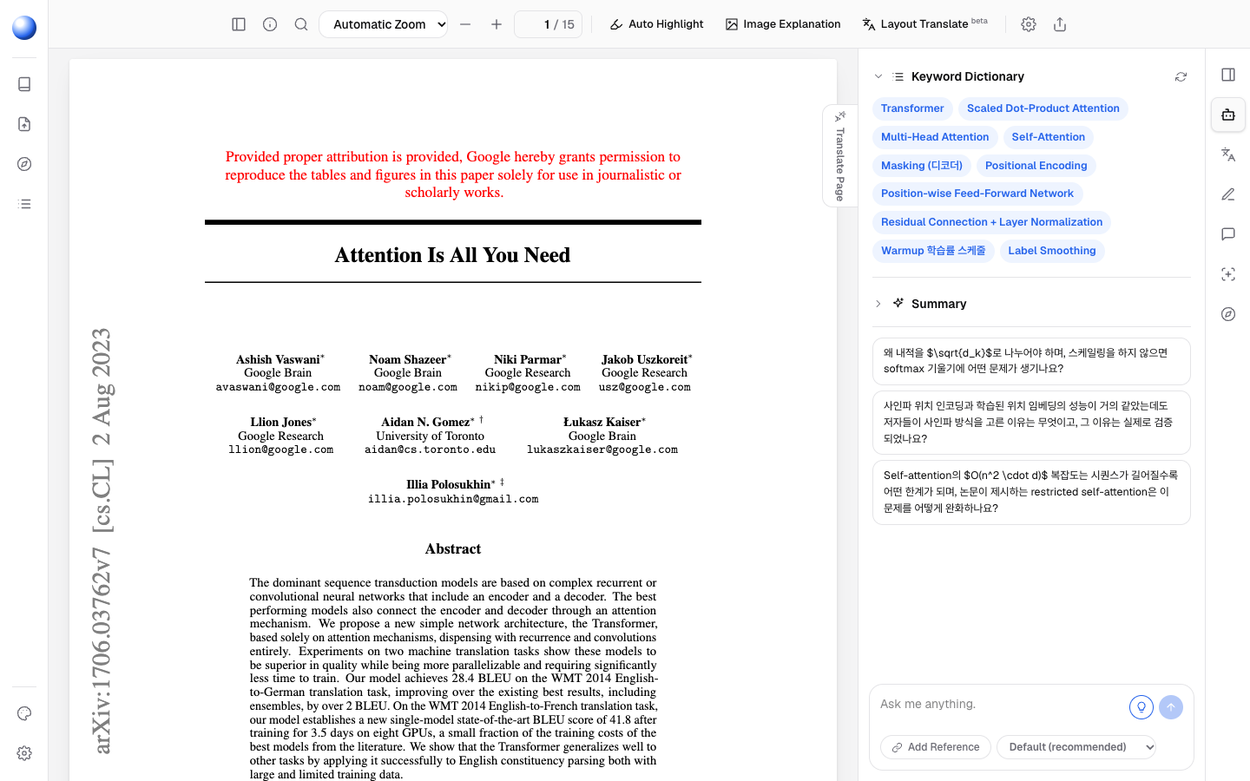
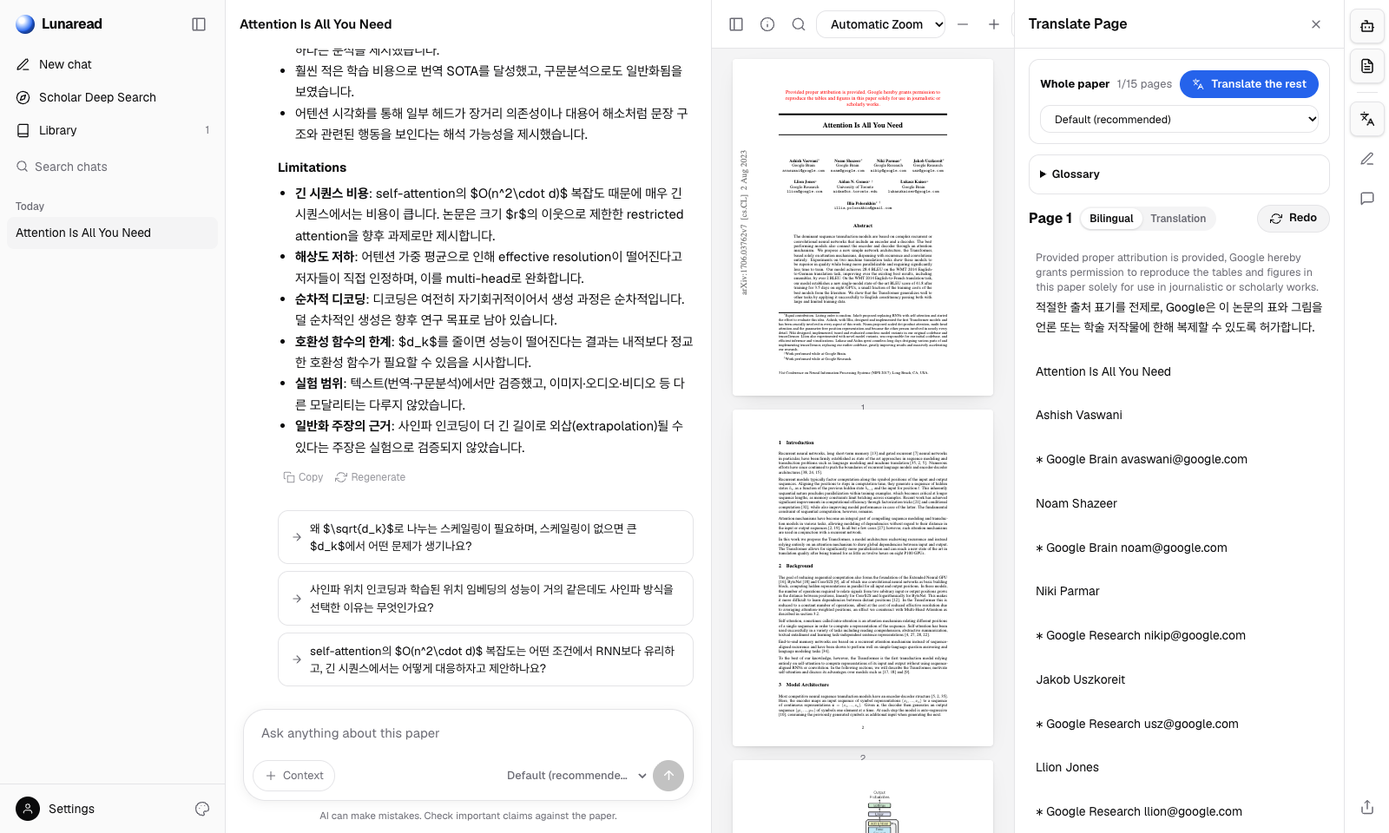
Landing, README and screenshots for 0.2.0; Linux downloads
The hero mock now shows the chat thread beside the PDF. README covers the translator,
chat upgrades, BibTeX, the palette, phones, Linux and tag-based releases.

Closes #24

diff --git a/components/icons.tsx b/components/icons.tsx
@@ -67,6 +67,7 @@ export default function Icon({ name, size = 18, ...rest }: { name: string; size?
 const BRANDS: Record<string, { d: string; color: string }> = {
   claude: { color: '#D97757', d: 'm4.7144 15.9555 4.7174-2.6471.079-.2307-.079-.1275h-.2307l-.7893-.0486-2.6956-.0729-2.3375-.0971-2.2646-.1214-.5707-.1215-.5343-.7042.0546-.3522.4797-.3218.686.0608 1.5179.1032 2.2767.1578 1.6514.0972 2.4468.255h.3886l.0546-.1579-.1336-.0971-.1032-.0972L6.973 9.8356l-2.55-1.6879-1.3356-.9714-.7225-.4918-.3643-.4614-.1578-1.0078.6557-.7225.8803.0607.2246.0607.8925.686 1.9064 1.4754 2.4893 1.8336.3643.3035.1457-.1032.0182-.0728-.164-.2733-1.3539-2.4467-1.445-2.4893-.6435-1.032-.17-.6194c-.0607-.255-.1032-.4674-.1032-.7285L6.287.1335 6.6997 0l.9957.1336.419.3642.6192 1.4147 1.0018 2.2282 1.5543 3.0296.4553.8985.2429.8318.091.255h.1579v-.1457l.1275-1.706.2368-2.0947.2307-2.6957.0789-.7589.3764-.9107.7468-.4918.5828.2793.4797.686-.0668.4433-.2853 1.8517-.5586 2.9021-.3643 1.9429h.2125l.2429-.2429.9835-1.3053 1.6514-2.0643.7286-.8196.85-.9046.5464-.4311h1.0321l.759 1.1293-.34 1.1657-1.0625 1.3478-.8804 1.1414-1.2628 1.7-.7893 1.36.0729.1093.1882-.0183 2.8535-.607 1.5421-.2794 1.8396-.3157.8318.3886.091.3946-.3278.8075-1.967.4857-2.3072.4614-3.4364.8136-.0425.0304.0486.0607 1.5482.1457.6618.0364h1.621l3.0175.2247.7892.522.4736.6376-.079.4857-1.2142.6193-1.6393-.3886-3.825-.9107-1.3113-.3279h-.1822v.1093l1.0929 1.0686 2.0035 1.8092 2.5075 2.3314.1275.5768-.3218.4554-.34-.0486-2.2039-1.6575-.85-.7468-1.9246-1.621h-.1275v.17l.4432.6496 2.3436 3.5214.1214 1.0807-.17.3521-.6071.2125-.6679-.1214-1.3721-1.9246L14.38 17.959l-1.1414-1.9428-.1397.079-.674 7.2552-.3156.3703-.7286.2793-.6071-.4614-.3218-.7468.3218-1.4753.3886-1.9246.3157-1.53.2853-1.9004.17-.6314-.0121-.0425-.1397.0182-1.4328 1.9672-2.1796 2.9446-1.7243 1.8456-.4128.164-.7164-.3704.0667-.6618.4008-.5889 2.386-3.0357 1.4389-1.882.929-1.0868-.0062-.1579h-.0546l-6.3385 4.1164-1.1293.1457-.4857-.4554.0608-.7467.2307-.2429 1.9064-1.3114Z' },
   apple: { color: 'currentColor', d: 'M12.152 6.896c-.948 0-2.415-1.078-3.96-1.04-2.04.027-3.91 1.183-4.961 3.014-2.117 3.675-.546 9.103 1.519 12.09 1.013 1.454 2.208 3.09 3.792 3.039 1.52-.065 2.09-.987 3.935-.987 1.831 0 2.35.987 3.96.948 1.637-.026 2.676-1.48 3.676-2.948 1.156-1.688 1.636-3.325 1.662-3.415-.039-.013-3.182-1.221-3.22-4.857-.026-3.04 2.48-4.494 2.597-4.559-1.429-2.09-3.623-2.324-4.39-2.376-2-.156-3.675 1.09-4.61 1.09zM15.53 3.83c.843-1.012 1.4-2.427 1.245-3.83-1.207.052-2.662.805-3.532 1.818-.78.896-1.454 2.338-1.273 3.714 1.338.104 2.715-.688 3.559-1.701' },
+  linux: { color: 'currentColor', d: 'M12.504 0c-.155 0-.315.008-.48.021-4.226.333-3.105 4.807-3.17 6.298-.076 1.092-.3 1.953-1.05 3.02-.885 1.051-2.127 2.75-2.716 4.521-.278.832-.41 1.684-.287 2.489a.424.424 0 00-.11.135c-.26.268-.45.6-.663.839-.199.199-.485.267-.797.4-.313.136-.658.269-.864.68-.09.189-.136.394-.132.602 0 .199.027.4.055.536.058.399.116.728.04.97-.249.68-.28 1.145-.106 1.484.174.334.535.47.94.601.81.2 1.91.135 2.774.6.926.466 1.866.67 2.616.47.526-.116.97-.464 1.208-.946.587-.003 1.23-.269 2.26-.334.699-.058 1.574.267 2.577.2.025.134.063.198.114.333l.003.003c.391.778 1.113 1.132 1.884 1.071.771-.06 1.592-.536 2.257-1.306.631-.765 1.683-1.084 2.378-1.503.348-.199.629-.469.649-.853.023-.4-.2-.811-.714-1.376v-.097l-.003-.003c-.17-.2-.25-.535-.338-.926-.085-.401-.182-.786-.492-1.046h-.003c-.059-.054-.123-.067-.188-.135a.357.357 0 00-.19-.064c.431-1.278.264-2.55-.173-3.694-.533-1.41-1.465-2.638-2.175-3.483-.796-1.005-1.576-1.957-1.56-3.368.026-2.152.236-6.133-3.544-6.139zm.529 3.405h.013c.213 0 .396.062.584.198.19.135.33.332.438.533.105.259.158.459.166.724 0-.02.006-.04.006-.06v.105a.086.086 0 01-.004-.021l-.004-.024a1.807 1.807 0 01-.15.706.953.953 0 01-.213.335.71.71 0 00-.088-.042c-.104-.045-.198-.064-.284-.133a1.312 1.312 0 00-.22-.066c.05-.06.146-.133.183-.198.053-.128.082-.264.088-.402v-.02a1.21 1.21 0 00-.061-.4c-.045-.134-.101-.2-.183-.333-.084-.066-.167-.132-.267-.132h-.016c-.093 0-.176.03-.262.132a.8.8 0 00-.205.334 1.18 1.18 0 00-.09.4v.019c.002.089.008.179.02.267-.193-.067-.438-.135-.607-.202a1.635 1.635 0 01-.018-.2v-.02a1.772 1.772 0 01.15-.768c.082-.22.232-.406.43-.533a.985.985 0 01.594-.2zm-2.962.059h.036c.142 0 .27.048.399.135.146.129.264.288.344.465.09.199.14.4.153.667v.004c.007.134.006.2-.002.266v.08c-.03.007-.056.018-.083.024-.152.055-.274.135-.393.2.012-.09.013-.18.003-.267v-.015c-.012-.133-.04-.2-.082-.333a.613.613 0 00-.166-.267.248.248 0 00-.183-.064h-.021c-.071.006-.13.04-.186.132a.552.552 0 00-.12.27.944.944 0 00-.023.33v.015c.012.135.037.2.08.334.046.134.098.2.166.268.01.009.02.018.034.024-.07.057-.117.07-.176.136a.304.304 0 01-.131.068 2.62 2.62 0 01-.275-.402 1.772 1.772 0 01-.155-.667 1.759 1.759 0 01.08-.668 1.43 1.43 0 01.283-.535c.128-.133.26-.2.418-.2zm1.37 1.706c.332 0 .733.065 1.216.399.293.2.523.269 1.052.468h.003c.255.136.405.266.478.399v-.131a.571.571 0 01.016.47c-.123.31-.516.643-1.063.842v.002c-.268.135-.501.333-.775.465-.276.135-.588.292-1.012.267a1.139 1.139 0 01-.448-.067 3.566 3.566 0 01-.322-.198c-.195-.135-.363-.332-.612-.465v-.005h-.005c-.4-.246-.616-.512-.686-.71-.07-.268-.005-.47.193-.6.224-.135.38-.271.483-.336.104-.074.143-.102.176-.131h.002v-.003c.169-.202.436-.47.839-.601.139-.036.294-.065.466-.065zm2.8 2.142c.358 1.417 1.196 3.475 1.735 4.473.286.534.855 1.659 1.102 3.024.156-.005.33.018.513.064.646-1.671-.546-3.467-1.089-3.966-.22-.2-.232-.335-.123-.335.59.534 1.365 1.572 1.646 2.757.13.535.16 1.104.021 1.67.067.028.135.06.205.067 1.032.534 1.413.938 1.23 1.537v-.043c-.06-.003-.12 0-.18 0h-.016c.151-.467-.182-.825-1.065-1.224-.915-.4-1.646-.336-1.77.465-.008.043-.013.066-.018.135-.068.023-.139.053-.209.064-.43.268-.662.669-.793 1.187-.13.533-.17 1.156-.205 1.869v.003c-.02.334-.17.838-.319 1.35-1.5 1.072-3.58 1.538-5.348.334a2.645 2.645 0 00-.402-.533 1.45 1.45 0 00-.275-.333c.182 0 .338-.03.465-.067a.615.615 0 00.314-.334c.108-.267 0-.697-.345-1.163-.345-.467-.931-.995-1.788-1.521-.63-.4-.986-.87-1.15-1.396-.165-.534-.143-1.085-.015-1.645.245-1.07.873-2.11 1.274-2.763.107-.065.037.135-.408.974-.396.751-1.14 2.497-.122 3.854a8.123 8.123 0 01.647-2.876c.564-1.278 1.743-3.504 1.836-5.268.048.036.217.135.289.202.218.133.38.333.59.465.21.201.477.335.876.335.039.003.075.006.11.006.412 0 .73-.134.997-.268.29-.134.52-.334.74-.4h.005c.467-.135.835-.402 1.044-.7zm2.185 8.958c.037.6.343 1.245.882 1.377.588.134 1.434-.333 1.791-.765l.211-.01c.315-.007.577.01.847.268l.003.003c.208.199.305.53.391.876.085.4.154.78.409 1.066.486.527.645.906.636 1.14l.003-.007v.018l-.003-.012c-.015.262-.185.396-.498.595-.63.401-1.746.712-2.457 1.57-.618.737-1.37 1.14-2.036 1.191-.664.053-1.237-.2-1.574-.898l-.005-.003c-.21-.4-.12-1.025.056-1.69.176-.668.428-1.344.463-1.897.037-.714.076-1.335.195-1.814.12-.465.308-.797.641-.984l.045-.022zm-10.814.049h.01c.053 0 .105.005.157.014.376.055.706.333 1.023.752l.91 1.664.003.003c.243.533.754 1.064 1.189 1.637.434.598.77 1.131.729 1.57v.006c-.057.744-.48 1.148-1.125 1.294-.645.135-1.52.002-2.395-.464-.968-.536-2.118-.469-2.857-.602-.369-.066-.61-.2-.723-.4-.11-.2-.113-.602.123-1.23v-.004l.002-.003c.117-.334.03-.752-.027-1.118-.055-.401-.083-.71.043-.94.16-.334.396-.4.69-.533.294-.135.64-.202.915-.47h.002v-.002c.256-.268.445-.601.668-.838.19-.201.38-.336.663-.336zm7.159-9.074c-.435.201-.945.535-1.488.535-.542 0-.97-.267-1.28-.466-.154-.134-.28-.268-.373-.335-.164-.134-.144-.333-.074-.333.109.016.129.134.199.2.096.066.215.2.36.333.292.2.68.467 1.167.467.485 0 1.053-.267 1.398-.466.195-.135.445-.334.648-.467.156-.136.149-.267.279-.267.128.016.034.134-.147.332a8.097 8.097 0 01-.69.468zm-1.082-1.583V5.64c-.006-.02.013-.042.029-.05.074-.043.18-.027.26.004.063 0 .16.067.15.135-.006.049-.085.066-.135.066-.055 0-.092-.043-.141-.068-.052-.018-.146-.008-.163-.065zm-.551 0c-.02.058-.113.049-.166.066-.047.025-.086.068-.14.068-.05 0-.13-.02-.136-.068-.01-.066.088-.133.15-.133.08-.031.184-.047.259-.005.019.009.036.03.03.05v.02h.003z' },
   windows: { color: 'currentColor', d: 'M0 0h11.377v11.372H0zm12.623 0H24v11.372H12.623zM0 12.623h11.377V24H0zm12.623 0H24V24H12.623' },
   openai: { color: 'currentColor', d: 'M22.2819 9.8211a5.9847 5.9847 0 0 0-.5157-4.9108 6.0462 6.0462 0 0 0-6.5098-2.9A6.0651 6.0651 0 0 0 4.9807 4.1818a5.9847 5.9847 0 0 0-3.9977 2.9 6.0462 6.0462 0 0 0 .7427 7.0966 5.98 5.98 0 0 0 .511 4.9107 6.051 6.051 0 0 0 6.5146 2.9001A5.9847 5.9847 0 0 0 13.2599 24a6.0557 6.0557 0 0 0 5.7718-4.2058 5.9894 5.9894 0 0 0 3.9977-2.9001 6.0557 6.0557 0 0 0-.7475-7.0729zm-9.022 12.6081a4.4755 4.4755 0 0 1-2.8764-1.0408l.1419-.0804 4.7783-2.7582a.7948.7948 0 0 0 .3927-.6813v-6.7369l2.02 1.1686a.071.071 0 0 1 .038.052v5.5826a4.504 4.504 0 0 1-4.4945 4.4944zm-9.6607-4.1254a4.4708 4.4708 0 0 1-.5346-3.0137l.142.0852 4.783 2.7582a.7712.7712 0 0 0 .7806 0l5.8428-3.3685v2.3324a.0804.0804 0 0 1-.0332.0615L9.74 19.9502a4.4992 4.4992 0 0 1-6.1408-1.6464zM2.3408 7.8956a4.485 4.485 0 0 1 2.3655-1.9728V11.6a.7664.7664 0 0 0 .3879.6765l5.8144 3.3543-2.0201 1.1685a.0757.0757 0 0 1-.071 0l-4.8303-2.7865A4.504 4.504 0 0 1 2.3408 7.872zm16.5963 3.8558L13.1038 8.364 15.1192 7.2a.0757.0757 0 0 1 .071 0l4.8303 2.7913a4.4944 4.4944 0 0 1-.6765 8.1042v-5.6772a.79.79 0 0 0-.407-.667zm2.0107-3.0231l-.142-.0852-4.7735-2.7818a.7759.7759 0 0 0-.7854 0L9.409 9.2297V6.8974a.0662.0662 0 0 1 .0284-.0615l4.8303-2.7866a4.4992 4.4992 0 0 1 6.6802 4.66zM8.3065 12.863l-2.02-1.1638a.0804.0804 0 0 1-.038-.0567V6.0742a4.4992 4.4992 0 0 1 7.3757-3.4537l-.142.0805L8.704 5.459a.7948.7948 0 0 0-.3927.6813zm1.0976-2.3654l2.602-1.4998 2.6069 1.4998v2.9994l-2.5974 1.4997-2.6067-1.4997Z' },
 };

diff --git a/components/site/Landing.tsx b/components/site/Landing.tsx
@@ -52,7 +52,7 @@ function Hero() {
           <Link href="/library/" className="btn btn-primary h-12 px-7 text-[15px]">Open the reader<Icon name="arrowRight" size={16} /></Link>
           <a href={DOWNLOADS.mac} className="btn btn-outline h-12 px-7 text-[15px]"><Brand name="apple" size={16} />Download for Mac</a>
         </div>
-        <p className="mt-5 text-[13px] text-muted">Free and open source · <a href={DOWNLOADS.win} className="underline-offset-2 hover:text-fg hover:underline">Windows</a> · <a href={REPO_URL} target="_blank" rel="noreferrer" className="underline-offset-2 hover:text-fg hover:underline">Source on GitHub</a> · Your papers stay on your device</p>
+        <p className="mt-5 text-[13px] text-muted">Free and open source · <a href={DOWNLOADS.win} className="underline-offset-2 hover:text-fg hover:underline">Windows</a> · <a href={DOWNLOADS.linux} className="underline-offset-2 hover:text-fg hover:underline">Linux</a> · <a href={REPO_URL} target="_blank" rel="noreferrer" className="underline-offset-2 hover:text-fg hover:underline">Source on GitHub</a> · Your papers stay on your device</p>
       </BlurFade>
       <BlurFade delay={0.32} className="relative mx-auto mt-16 max-w-5xl">
         <div className="relative rounded-[18px] border border-line bg-surface-2/60 p-2 shadow-soft">
@@ -118,7 +118,7 @@ function Bento() {
         <div className={`${cell} md:col-span-2`}>
           <Icon name="library" className="text-accent" />
           <h3 className="mt-4 text-lg font-bold">Library & folders</h3>
-          <p className="mt-1 max-w-md text-sm text-muted">Drop PDFs or paste arXiv links. Lunaread reads the title, renders a thumbnail and remembers where you stopped.</p>
+          <p className="mt-1 max-w-md text-sm text-muted">Drop PDFs, paste arXiv links or import a BibTeX file. Ask questions across a folder or your whole library.</p>
           <div className="mt-6 flex gap-3">{[0, 1, 2, 3].map(i => <div key={i} className="h-28 w-24 shrink-0 rounded-lg border border-line bg-white p-2.5 shadow-sm" style={{ transform: `rotate(${(i - 1.5) * 3}deg)` }}><div className="mb-2 h-1.5 w-3/4 rounded bg-black/70" />{[1, 2, 3, 4, 5].map(j => <div key={j} className="mb-1.5 h-1 rounded bg-black/10" />)}</div>)}</div>
         </div>
         <div className={cell}>
@@ -130,7 +130,7 @@ function Bento() {
         <div className={cell}>
           <Icon name="pen" className="text-accent" />
           <h3 className="mt-4 text-lg font-bold">Markup & notes</h3>
-          <p className="mt-1 text-sm text-muted">Five highlight colors, notes on every highlight, Markdown export.</p>
+          <p className="mt-1 text-sm text-muted">Five highlight colors, notes on every highlight, Markdown and BibTeX export.</p>
           <div className="mt-5 flex gap-2">{['yellow', 'green', 'blue', 'pink', 'purple'].map(c => <span key={c} className="size-7 rounded-full ring-2 ring-surface" style={{ background: `var(--hl-${c})` }} />)}</div>
         </div>
         <div className={`${cell} md:col-span-2`}>
@@ -142,7 +142,7 @@ function Bento() {
         <div className={cell}>
           <Icon name="monitor" className="text-accent" />
           <h3 className="mt-4 text-lg font-bold">Web and desktop</h3>
-          <p className="mt-1 text-sm text-muted">The same app in your browser or as a native macOS / Windows window.</p>
+          <p className="mt-1 text-sm text-muted">The same app in your browser, on your phone, or as a macOS, Windows or Linux app.</p>
         </div>
         <div className={`${cell} md:col-span-2`}>
           <Icon name="shield" className="text-accent" />
@@ -199,11 +199,12 @@ function Download() {
   const apps: [string, string, string, string][] = [
     ['apple', 'macOS', 'Apple Silicon · .dmg', DOWNLOADS.mac],
     ['windows', 'Windows', 'x64 · installer', DOWNLOADS.win],
+    ['linux', 'Linux', 'x64 · AppImage', DOWNLOADS.linux],
   ];
   return (
     <section id="download" className="scroll-mt-16 px-6 py-20 md:px-10">
       <Heading kicker="Desktop app" title="Take Lunaread to your desktop" sub="The desktop app runs the AI server inside the app, so your Claude or ChatGPT login works with nothing else to set up." />
-      <div className="mx-auto mt-12 grid max-w-3xl gap-4 sm:grid-cols-2">
+      <div className="mx-auto mt-12 grid max-w-5xl gap-4 sm:grid-cols-2 lg:grid-cols-3">
         {apps.map(([icon, name, meta, href]) => (
           <a key={name} href={href} className="card group relative flex items-center gap-4 overflow-hidden p-6 transition hover:-translate-y-0.5 hover:shadow-soft">
             <span className="grid size-12 place-items-center rounded-2xl bg-surface-2 text-fg"><Brand name={icon} size={24} /></span>
@@ -213,7 +214,7 @@ function Download() {
         ))}
       </div>
       <p className="mt-6 text-center text-[13px] text-muted">
-        Unsigned builds. On macOS, right-click the app and choose <b>Open</b> on first launch. <a href={DOWNLOADS.all} target="_blank" rel="noreferrer" className="text-accent hover:underline">All releases</a>
+        Unsigned builds. On macOS, right-click the app and choose <b>Open</b> on first launch. On Linux, make the AppImage executable. <a href={DOWNLOADS.all} target="_blank" rel="noreferrer" className="text-accent hover:underline">All releases</a>
       </p>
     </section>
   );

diff --git a/components/site/Mocks.tsx b/components/site/Mocks.tsx
@@ -49,37 +49,37 @@ export function PaperPage({ selection = true }: { selection?: boolean }) {
   );
 }
 
+// The reader as it looks in the app: the chat thread beside the PDF.
 export function ProductMock() {
   const { shown, done } = useTyping(EXPLAIN);
+  const Avatar = () => <span className="mt-0.5 size-5 shrink-0 rounded-full" style={{ background: 'radial-gradient(circle at 32% 30%, #fff 0 14%, var(--accent) 58%, color-mix(in srgb, var(--accent) 35%, #000) 100%)' }} />;
   return (
     <div className="overflow-hidden rounded-[14px] border border-line bg-surface text-left">
       <div className="flex h-11 items-center gap-2 border-b border-line px-4">
         <span className="flex gap-1.5">{['#ff5f57', '#febc2e', '#28c840'].map(c => <i key={c} className="size-3 rounded-full" style={{ background: c }} />)}</span>
-        <div className="mx-auto hidden items-center gap-1 text-xs text-muted sm:flex">
-          <span className="rounded-md border border-line px-2 py-1">Automatic Zoom</span><span className="rounded-md border border-line px-2 py-1">3 / 15</span>
+        <span className="ml-3 truncate text-xs font-semibold">Attention Is All You Need</span>
+        <div className="ml-auto hidden items-center gap-1 text-xs text-muted sm:flex">
+          <span className="rounded-md border border-line px-2 py-1">3 / 15</span>
           <span className="inline-flex items-center gap-1 rounded-md bg-accent-soft px-2 py-1 text-accent"><Icon name="highlighter" size={12} />Auto Highlight</span>
           <span className="inline-flex items-center gap-1 px-2 py-1"><Icon name="image" size={12} />Image Explanation</span>
-          <span className="inline-flex items-center gap-1 px-2 py-1"><Icon name="languages" size={12} />Translate</span>
         </div>
       </div>
-      <div className="grid md:grid-cols-[1fr_340px]">
-        <div className="bg-surface-2 p-6 md:p-10"><PaperPage /></div>
-        <div className="hidden flex-col gap-3 border-l border-line p-4 md:flex">
-          <b className="text-[13px]">Keyword Dictionary</b>
-          <div className="flex flex-wrap gap-1.5">{['Transformer', 'Self-Attention', 'Multi-Head', 'Positional Encoding', 'Softmax'].map(k => <span key={k} className="rounded-full bg-ai px-2.5 py-1 text-[11.5px] font-semibold text-accent">{k}</span>)}</div>
-          <div className="ai-bubble">
-            <div className="mb-1.5 flex items-center gap-1.5 text-[11px] font-bold text-accent"><Icon name="sparkles" size={12} />Explanation · p.3</div>
-            <p className={`text-[12.5px] ${done ? '' : 'typing'}`}>{shown}</p>
-          </div>
-          <div className="mt-auto rounded-xl border border-line p-2.5">
-            <p className="text-xs text-muted">Ask me anything.</p>
-            <div className="mt-2 flex items-center gap-1.5">
-              <span className="chip h-6 text-[11px]"><Icon name="link" size={11} />Add Reference</span>
-              <span className="chip h-6 text-[11px]">Opus 5.5 · my subscription</span>
-              <span className="ml-auto grid size-6 place-items-center rounded-full bg-accent text-white"><Icon name="send" size={12} /></span>
+      <div className="grid md:grid-cols-[360px_1fr]">
+        <div className="hidden flex-col gap-3.5 border-r border-line p-4 text-[12.5px] leading-relaxed md:flex">
+          <div className="ml-auto flex w-56 items-center gap-2 rounded-xl border border-line p-2"><span className="grid h-8 w-6 place-items-center rounded bg-red-500 text-[7px] font-bold text-white">PDF</span><span><b className="block text-[11.5px]">Attention Is All You Need</b><span className="text-[10.5px] text-muted">PDF · 15 pages</span></span></div>
+          <div className="flex gap-2"><Avatar /><div><div className="mb-1 flex flex-wrap gap-1">{['Transformer', 'Self-Attention', 'Multi-Head'].map(k => <span key={k} className="rounded-full bg-ai px-2 py-0.5 text-[10.5px] font-semibold text-accent">{k}</span>)}</div>A new architecture built only on attention, with no recurrence.</div></div>
+          <div className="ml-auto max-w-[85%] rounded-2xl bg-surface-2 px-3 py-2"><div className="mb-0.5 flex items-center gap-1 text-[10.5px] font-semibold text-muted"><Icon name="sparkles" size={11} />Explain · p.3</div><i className="text-fg/80">“We scale the dot products by 1/√dₖ…”</i></div>
+          <div className="flex gap-2"><Avatar /><p className={done ? '' : 'typing'}>{shown}</p></div>
+          <div className="mt-auto rounded-2xl border border-line p-2">
+            <p className="px-1 text-[11.5px] text-muted">Ask anything about this paper</p>
+            <div className="mt-1.5 flex items-center gap-1.5">
+              <span className="chip h-6 text-[10.5px]"><Icon name="plus" size={11} />Context</span>
+              <span className="ml-auto text-[10.5px] text-muted">Opus 5.5 · my subscription</span>
+              <span className="grid size-6 place-items-center rounded-full bg-fg text-bg"><Icon name="arrowRight" size={12} className="-rotate-90" /></span>
             </div>
           </div>
         </div>
+        <div className="bg-surface-2 p-6 md:p-10"><PaperPage /></div>
       </div>
     </div>
   );

diff --git a/components/app/Rail.tsx b/components/app/Rail.tsx
@@ -146,7 +146,7 @@ export function SetupDialog({ onClose }: { onClose: () => void }) {
         <ol className="grid gap-4 text-[13px] text-muted">
           <Step n={1} title="Easiest: use the desktop app">
             <span>It has the server built in, so nothing else is needed.</span>
-            <div className="flex gap-2"><a className="btn btn-outline btn-sm" href={DOWNLOADS.mac}><Brand name="apple" size={14} />macOS</a><a className="btn btn-outline btn-sm" href={DOWNLOADS.win}><Brand name="windows" size={14} />Windows</a><a className="btn btn-outline btn-sm" href={DOWNLOADS.all} target="_blank" rel="noreferrer">All downloads</a></div>
+            <div className="flex flex-wrap gap-2"><a className="btn btn-outline btn-sm" href={DOWNLOADS.mac}><Brand name="apple" size={14} />macOS</a><a className="btn btn-outline btn-sm" href={DOWNLOADS.win}><Brand name="windows" size={14} />Windows</a><a className="btn btn-outline btn-sm" href={DOWNLOADS.linux}><Brand name="linux" size={14} />Linux</a></div>
           </Step>
           <Step n={2} title="Or run the server from source">
             <span>Needs Node.js 22.18+. Log in to <code className="font-mono">claude</code> or <code className="font-mono">codex</code> once to use your subscription.</span>

diff --git a/components/viewer/Panels.tsx b/components/viewer/Panels.tsx
@@ -241,7 +241,7 @@ export function TranslatePanel({ page, paras, busy, error, all, translated, page
       {paras?.map((p, i) => (
         <div key={i} className="group grid cursor-pointer gap-1 rounded-xl p-2 text-[14px] leading-relaxed hover:bg-surface-2" onClick={() => onJump(p)}>
           {both && p.tr !== p.src && <p className="text-[12.5px] leading-snug text-muted">{p.src}</p>}
-          <p>{p.tr}</p>
+          <p className={p.tr === p.src ? 'text-[12.5px] text-muted' : ''}>{p.tr}</p>
           <div className="hidden gap-0.5 text-muted group-hover:flex group-focus-within:flex" onClick={e => e.stopPropagation()}>
             <Act icon="refresh" label="Retranslate" onClick={() => onRetranslate(i)} /><Copy text={p.tr} />
           </div>

diff --git a/lib/api.ts b/lib/api.ts
@@ -10,6 +10,7 @@ export const REPO_URL = 'https://github.com/SUNGMYEONGGI/Lunaread';
 export const DOWNLOADS = {
   mac: `${REPO_URL}/releases/latest/download/Lunaread-arm64.dmg`,
   win: `${REPO_URL}/releases/latest/download/Lunaread-Setup-x64.exe`,
+  linux: `${REPO_URL}/releases/latest/download/Lunaread-x86_64.AppImage`,
   all: `${REPO_URL}/releases/latest`,
 };
 

diff --git a/README.md b/README.md
@@ -8,14 +8,14 @@
 
 AI runs through the Claude Agent SDK on your Claude login, or through the Codex SDK on your ChatGPT login. You need no API keys and no cloud account. Your papers, highlights and notes stay in your browser.
 
-[**Website**](https://sungmyeonggi.github.io/Lunaread/) · [**Download for Mac**](https://github.com/SUNGMYEONGGI/Lunaread/releases/latest/download/Lunaread-arm64.dmg) · [**Download for Windows**](https://github.com/SUNGMYEONGGI/Lunaread/releases/latest/download/Lunaread-Setup-x64.exe) · [**Open the reader**](https://sungmyeonggi.github.io/Lunaread/library/) · [**Quick start**](#quick-start) · [**Features**](#features) · [**Architecture**](#architecture) · [**Security model**](#security-model) · [**Build and release**](#build-and-release)
+[**Website**](https://sungmyeonggi.github.io/Lunaread/) · [**Download for Mac**](https://github.com/SUNGMYEONGGI/Lunaread/releases/latest/download/Lunaread-arm64.dmg) · [**Download for Windows**](https://github.com/SUNGMYEONGGI/Lunaread/releases/latest/download/Lunaread-Setup-x64.exe) · [**Download for Linux**](https://github.com/SUNGMYEONGGI/Lunaread/releases/latest/download/Lunaread-x86_64.AppImage) · [**Open the reader**](https://sungmyeonggi.github.io/Lunaread/library/) · [**Quick start**](#quick-start) · [**Features**](#features) · [**Architecture**](#architecture) · [**Security model**](#security-model) · [**Build and release**](#build-and-release)
 
 [![Release](https://github.com/SUNGMYEONGGI/Lunaread/actions/workflows/release.yml/badge.svg)](https://github.com/SUNGMYEONGGI/Lunaread/actions/workflows/release.yml)
 [![Latest release](https://img.shields.io/github/v/release/SUNGMYEONGGI/Lunaread)](https://github.com/SUNGMYEONGGI/Lunaread/releases/latest)
 [![Deploy to GitHub Pages](https://github.com/SUNGMYEONGGI/Lunaread/actions/workflows/deploy.yml/badge.svg)](https://github.com/SUNGMYEONGGI/Lunaread/actions/workflows/deploy.yml)
 ![Next.js](https://img.shields.io/badge/Next.js-16-black.svg)
 ![TypeScript](https://img.shields.io/badge/TypeScript-strict-3178c6.svg)
-![Platform: Web · macOS · Windows](https://img.shields.io/badge/platform-web%20%C2%B7%20macOS%20%C2%B7%20Windows-lightgrey.svg)
+![Platform: Web · macOS · Windows · Linux](https://img.shields.io/badge/platform-web%20%C2%B7%20macOS%20%C2%B7%20Windows%20%C2%B7%20Linux-lightgrey.svg)
 ![Alpha](https://img.shields.io/badge/status-alpha-orange.svg)
 
 <img src="docs/reader.png" width="860" alt="Lunaread reader with the AI Colleague panel">
@@ -61,7 +61,7 @@ The model list comes from each engine. For Claude, that is the models your plan 
 
 ### Desktop app
 
-1. Download the latest release: [**`Lunaread-arm64.dmg`**](https://github.com/SUNGMYEONGGI/Lunaread/releases/latest/download/Lunaread-arm64.dmg) (macOS, Apple Silicon) or [**`Lunaread-Setup-x64.exe`**](https://github.com/SUNGMYEONGGI/Lunaread/releases/latest/download/Lunaread-Setup-x64.exe) (Windows). All builds are on [Releases](https://github.com/SUNGMYEONGGI/Lunaread/releases).
+1. Download the latest release: [**`Lunaread-arm64.dmg`**](https://github.com/SUNGMYEONGGI/Lunaread/releases/latest/download/Lunaread-arm64.dmg) (macOS, Apple Silicon), [**`Lunaread-Setup-x64.exe`**](https://github.com/SUNGMYEONGGI/Lunaread/releases/latest/download/Lunaread-Setup-x64.exe) (Windows) or [**`Lunaread-x86_64.AppImage`**](https://github.com/SUNGMYEONGGI/Lunaread/releases/latest/download/Lunaread-x86_64.AppImage) (Linux). All builds are on [Releases](https://github.com/SUNGMYEONGGI/Lunaread/releases).
 2. **macOS.** Drag **Lunaread** to Applications. The build is signed ad hoc only, so Gatekeeper blocks the first launch. Right-click the app and choose **Open**, or run:
 
    ```sh
@@ -69,7 +69,9 @@ The model list comes from each engine. For Claude, that is the models your plan 
    ```
 
    **Windows.** Run the installer. SmartScreen may warn about an unknown publisher; choose **More info**, then **Run anyway**.
-3. The app uses the Claude Code and Codex logins already on this computer. You don't need to configure anything else.
+
+   **Linux.** `chmod +x Lunaread-x86_64.AppImage`, then run it.
+3. The app uses the Claude Code and Codex logins already on this computer. You don't need to configure anything else. It tells you when a newer release is out.
 
 ### From source
 
@@ -84,7 +86,7 @@ npm start          # http://127.0.0.1:8787
 You can now use either address:
 
 - **http://127.0.0.1:8787**, served by the local server.
-- **The [website](https://sungmyeonggi.github.io/Lunaread/library/).** It finds the server on its own. The first time, Chrome asks for permission to access devices on your local network; choose **Allow**.
+- **The [website](https://sungmyeonggi.github.io/Lunaread/library/).** It finds the server on its own; on the first visit without one, a setup guide walks you through connecting it. Chrome asks for permission to access devices on your local network; choose **Allow**.
 
 To run the desktop app from source, use `npm run desktop`.
 
@@ -96,6 +98,9 @@ To run the desktop app from source, use `npm run desktop`.
 - Turn on **Image Explanation** and drag over a figure. Holding `⌘`/`Ctrl` while dragging does the same.
 - Press **Auto Highlight** to mark novelty, method and result sentences.
 - Click a citation marker such as `[12]`, or hover an internal link to preview its target.
+- Open **Translate Page** in the right rail and press **Translate paper**. Read it paragraph by paragraph next to the original, or hold `Alt`/`⌥` and point at a paragraph in the PDF.
+- In the composer, open **Context** and choose **Whole library** to ask across every paper you have.
+- Press `⌘K`/`Ctrl+K` to jump to a paper or run an action.
 - Open the palette in the left rail and try any Color Hunt palette as the app theme.
 
 ## Main surfaces
@@ -105,20 +110,22 @@ To run the desktop app from source, use `npm run desktop`.
 | Landing (`/`, `/features/`) | Product site in the style of the Magic UI templates |
 | Home (`/library/`) | Chatbot-style start screen: one composer that takes a PDF, an arXiv ID or a link |
 | Sidebar | Every paper is a conversation, grouped by Today, Previous 7 days and Older. Also holds New chat, Scholar Deep Search, Library, search and Settings. |
-| Library (`/library/?all`) | All papers as cards, with folder filters, folder moves and delete |
+| Library (`/library/?all`) | All papers as cards, with folder filters, folder moves, delete, and BibTeX import/export |
 | Scholar Deep Search (`/library/?scholar`) | Semantic Scholar search; open-access PDFs go straight into the library |
 | Reader (`/read/?id=`) | A chat thread next to the PDF canvas. The PDF toolbar sits on top, the panel rail on the right. Either side can be hidden. |
-| Chat thread (AI Colleague) | The paper as an attachment, the keyword dictionary and summary, Auto Highlights, explanation cards as chat turns, Q&A with references and model choice |
-| Translate Page tab | Translates the current page as a stream; results are cached per page |
+| Chat thread (AI Colleague) | The paper as an attachment, the keyword dictionary and summary, Auto Highlights, explanation cards as chat turns, Q&A with stop, edit and regenerate, context from other papers, a folder or the whole library, and model choice |
+| Translate Page tab | Paragraph-by-paragraph translation of a page or the whole paper, bilingual or translation-only view, glossary, translation model |
 | Markup & Notes tab | Every highlight with its note; export them as Markdown |
 | Discussion tab | Strengths, weaknesses and open questions of the paper |
-| Settings | Provider and model, server URL and API keys, answer language, theme |
+| Settings | Provider and model, server URL and API keys, answer language, global glossary, Alt+hover translation, dark PDF pages, theme |
 
 ### Keyboard shortcuts
 
 | Keys | Action |
 | --- | --- |
+| `⌘K` / `Ctrl+K` | Command palette: papers and actions |
 | `⌘F` / `Ctrl+F` | Find in paper (`Enter` next, `Shift+Enter` previous) |
+| `Alt` / `⌥` + point | Translate the paragraph under the pointer |
 | `⌘`/`Ctrl` + drag | Explain the selected area as an image |
 | `Esc` | Close popovers, menus and area mode |
 
@@ -127,13 +134,16 @@ To run the desktop app from source, use `npm run desktop`.
 - **Subscription first.** Claude goes through the Agent SDK with `ANTHROPIC_API_KEY` removed from its environment, so it always uses your login instead of API billing. Codex runs in a read-only sandbox.
 - **The paper as context.** The full text goes along with every question. On the API providers, the PDF is uploaded once through the Files API and then cached.
 - **Explain, translate, ask.** Each selection becomes a card that streams in. A card can also be redrawn as an infographic in your theme's colors.
+- **Paper translator.** Pages are split into paragraphs and translated as a batch. Citations, figure/table/equation references and URLs are masked before translation and restored after, so they come back intact. A glossary (per paper, seeded from the keyword dictionary, plus a global one) fixes or protects terms. Translations are cached in IndexedDB, so the same paragraph is never paid for twice. The whole paper runs two pages at a time in the background, and a rerun resumes where it stopped. Export as bilingual or translation-only Markdown.
+- **Chat like a chatbot.** Stop a reply, edit a message and resend, or regenerate the last answer. Ask across a folder or the whole library: passages are retrieved from the stored text of your papers and cited as (Title, p.N). Export the thread as Markdown.
 - **Image Explanation.** The selected region is rendered at full resolution and sent as an image.
 - **Auto Highlight.** The model returns verbatim key sentences, which are then located in the text layer and highlighted by category.
-- **Smart Citations.** A citation marker is resolved against the paper's reference list. Results are cached per paper.
+- **Smart Citations.** A citation marker is resolved against the paper's reference list, and the cited paper can be found on Semantic Scholar and added to the library. Results are cached per paper.
 - **Link preview.** Hovering an internal link renders the destination area of the target page.
-- **Library.** Import by arXiv ID, PDF link or drag and drop. Organize papers in folders, search them, and see your reading position.
+- **Library.** Import by arXiv ID, PDF link, drag and drop or a BibTeX file. Organize papers in folders, search them, and see your reading position. Export papers with highlights and notes as BibTeX (Zotero imports it).
 - **Themes from Color Hunt.** Infinite scroll through every palette, with a live preview, plus light and dark mode.
-- **Desktop app.** Electron with a hidden-inset title bar on macOS. External links open in the system browser.
+- **Everywhere.** On phones the chat and the PDF become tabs and the sidebar a drawer. The desktop app (Electron) checks GitHub Releases for updates. External links open in the system browser.
+- **Accessible.** Native dialogs with focus trapping and `Esc`, visible focus rings, a command palette, and dark PDF pages for dark mode.
 
 ## Security model
 
@@ -170,7 +180,7 @@ In the browser, the IndexedDB database `lunaread` holds papers, PDFs, highlights
 │   components/site Landing, nav, mocks (Magic UI-style effects in CSS)     │
 │   components/app  Library, Rail, Settings, ThemePicker, GetStarted        │
 │   components/viewer Viewer, PdfPage (pdf.js), Panels                      │
-│   lib/            api, db (IndexedDB), pdf, layout, theme, types          │
+│   lib/            api, db (IndexedDB), pdf, text, translate, library      │
 └───────────────────────────────▲───────────────────────────────────────────┘
                                 │ fetch / SSE   (same origin, or CORS + PNA)
 ┌───────────────────────────────┴──── server/server.ts (127.0.0.1:8787) ────┐
@@ -186,12 +196,12 @@ In the browser, the IndexedDB database `lunaread` holds papers, PDFs, highlights
 | `app/` | Next.js App Router pages. Library and reader are client-only. |
 | `components/site/` | Landing and features: nav, hero, bento, feature switcher, FAQ |
 | `components/magic/` | BlurFade, BorderBeam, Marquee, ShinyText (CSS, no motion library) |
-| `components/app/` | Library, rail, settings, the model picker, Color Hunt theme picker, Get started dialog |
+| `components/app/` | Library, sidebar, settings, setup guide, command palette, the model picker, Color Hunt theme picker, Get started dialog |
 | `components/viewer/` | Reader: zoom, search, selection, citations, link previews, area capture, panels |
-| `lib/` | Typed client: API client, IndexedDB store, pdf.js helpers, layout and theme math |
+| `lib/` | Typed client: API client, IndexedDB store and translation cache, pdf.js helpers, text geometry, masking and retrieval, translator, BibTeX, theme math |
 | `server/` | Node server, AI providers, prompts and schemas |
 | `electron/main.cjs` | Desktop shell; imports the compiled `dist-server/server.js` |
-| `lib/*.test.ts` | Unit tests for layout block grouping and theme derivation |
+| `lib/*.test.ts` | Unit tests for paragraph grouping, masking, glossary, retrieval, fuzzy search, BibTeX and theme derivation |
 
 ## Build and release
 
@@ -204,24 +214,28 @@ npm run dev          # server + next dev at http://localhost:3000
 npm run desktop      # build, then Electron
 npm run dist:mac     # dist/Lunaread-arm64.dmg
 npm run dist:win     # dist/Lunaread-Setup-x64.exe
+npm run dist:linux   # dist/Lunaread-x86_64.AppImage
 ```
 
 | Item | Value |
 | --- | --- |
 | App ID | `io.lunaread.app` |
-| Targets | macOS `dmg` (arm64), Windows `nsis` (x64) |
+| Targets | macOS `dmg` (arm64), Windows `nsis` (x64), Linux `AppImage` (x64) |
 | Icon | `build/icon.png`, rendered from `build/icon.svg` |
 | Packaged files | `out/**`, `dist-server/**`, `electron/**`, `package.json`, and the runtime `dependencies`, which include the Claude Code and Codex binaries for the platform |
-| Signing | Ad hoc on macOS (`identity: "-"`). Windows builds are unsigned. |
+| Signing | Ad hoc on macOS (`identity: "-"`). Windows and Linux builds are unsigned. |
 
 ### Releasing
 
-Releases are continuous. Every push to `main` that changes more than Markdown or `docs/` runs `.github/workflows/release.yml`:
+Releases follow the version in `package.json`. To ship one, bump the version, then push a matching tag:
 
-1. Builds on `macos-14` and `windows-latest` in parallel. Each job sets the version to `<major>.<minor>.<run number>`, runs the typecheck and the tests, and packages the installer.
-2. Publishes both files as GitHub Release `v<version>`, with notes generated from the commits, and marks it latest.
+```sh
+git tag v0.2.0 && git push origin v0.2.0
+```
 
-The download links on the website and in this README point to `releases/latest/download/…`, so they always serve the newest build. To start a new minor line, change `version` in `package.json`.
+`.github/workflows/release.yml` then builds on `macos-14`, `windows-latest` and `ubuntu-latest` in parallel (typecheck, tests, installer) and publishes the three files as GitHub Release `v<version>`, with notes generated from the commits, marked latest. The run fails if the tag and `package.json` disagree. Starting the workflow by hand builds the installers without publishing (a dry run).
+
+The download links on the website and in this README point to `releases/latest/download/…`, so they always serve the newest release.
 
 ### Website
 
@@ -231,16 +245,20 @@ Every push to `main` also runs `.github/workflows/deploy.yml`. It runs `npm run 
 
 - On the website, AI features need the local server, plus the browser's permission to reach it.
 - Only one person, one browser. There is no sync between devices.
-- Scanned PDFs without a text layer get no selection actions, search or Auto Highlight.
-- Desktop builds are not notarized or code-signed. macOS ships for Apple Silicon only, Windows for x64 only.
+- Scanned PDFs without a text layer get no selection actions, search, translation or Auto Highlight.
+- Paragraphs come from a layout heuristic, so tables and two-column edge cases can split oddly.
+- Library-wide questions use keyword retrieval, not embeddings; paraphrased questions may miss passages.
+- Desktop builds are not notarized or code-signed, so the app cannot update itself; it points you to the new release. macOS ships for Apple Silicon only, Windows and Linux for x64 only.
 - The interface is in English only.
 
 ## Roadmap
 
+- [x] Whole-paper translation, bilingual view, glossary (0.2.0)
+- [x] Linux build (0.2.0)
+- [x] BibTeX export and import (0.2.0)
 - [ ] OCR for scanned PDFs
 - [ ] Signed and notarized desktop builds, with auto-update
-- [ ] Intel Mac and Linux builds
-- [ ] Export and import of the library
+- [ ] Intel Mac build
 - [ ] Sync across devices
 
 ## Acknowledgements
